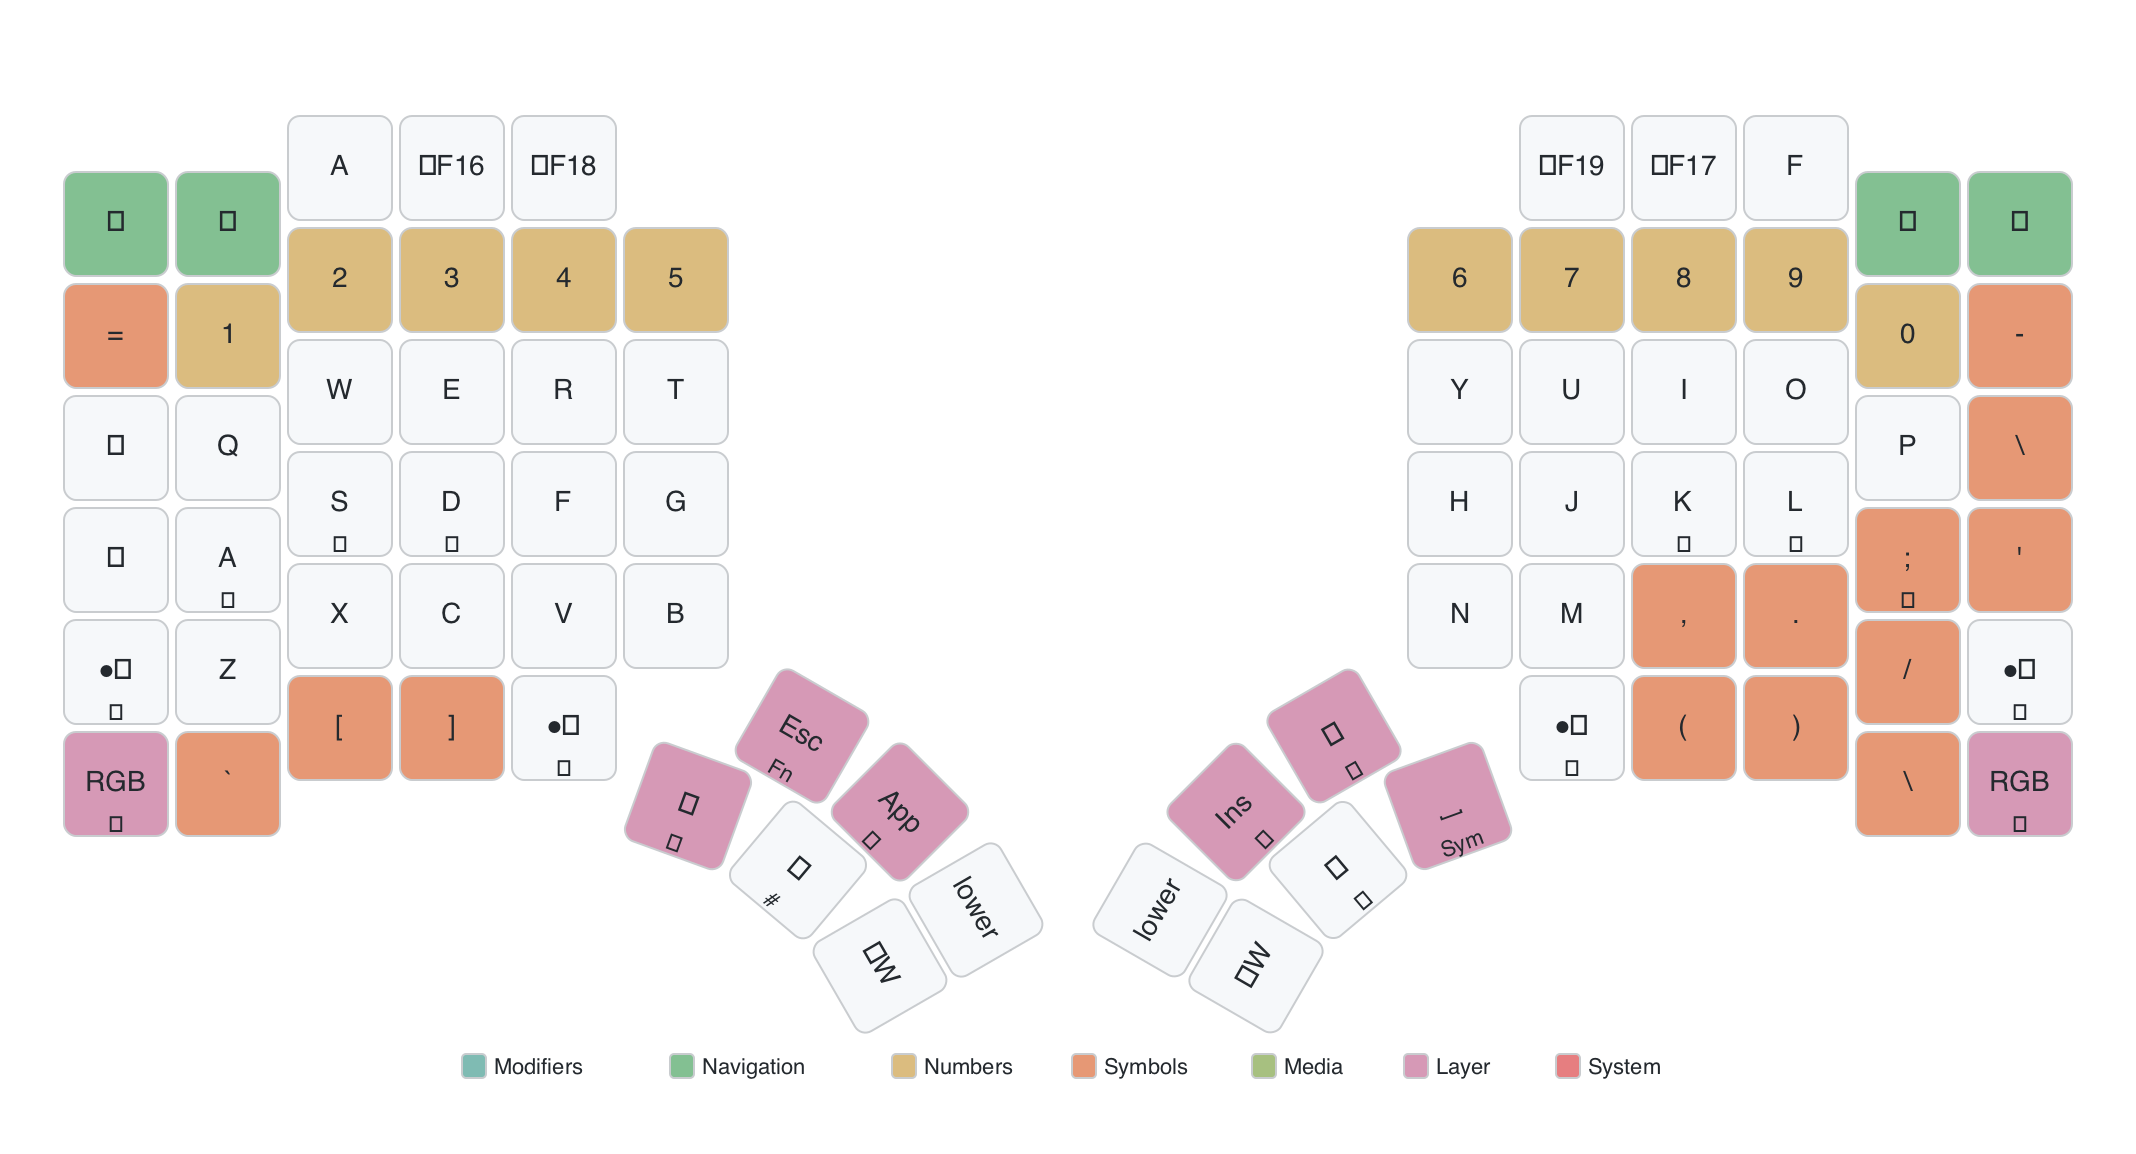
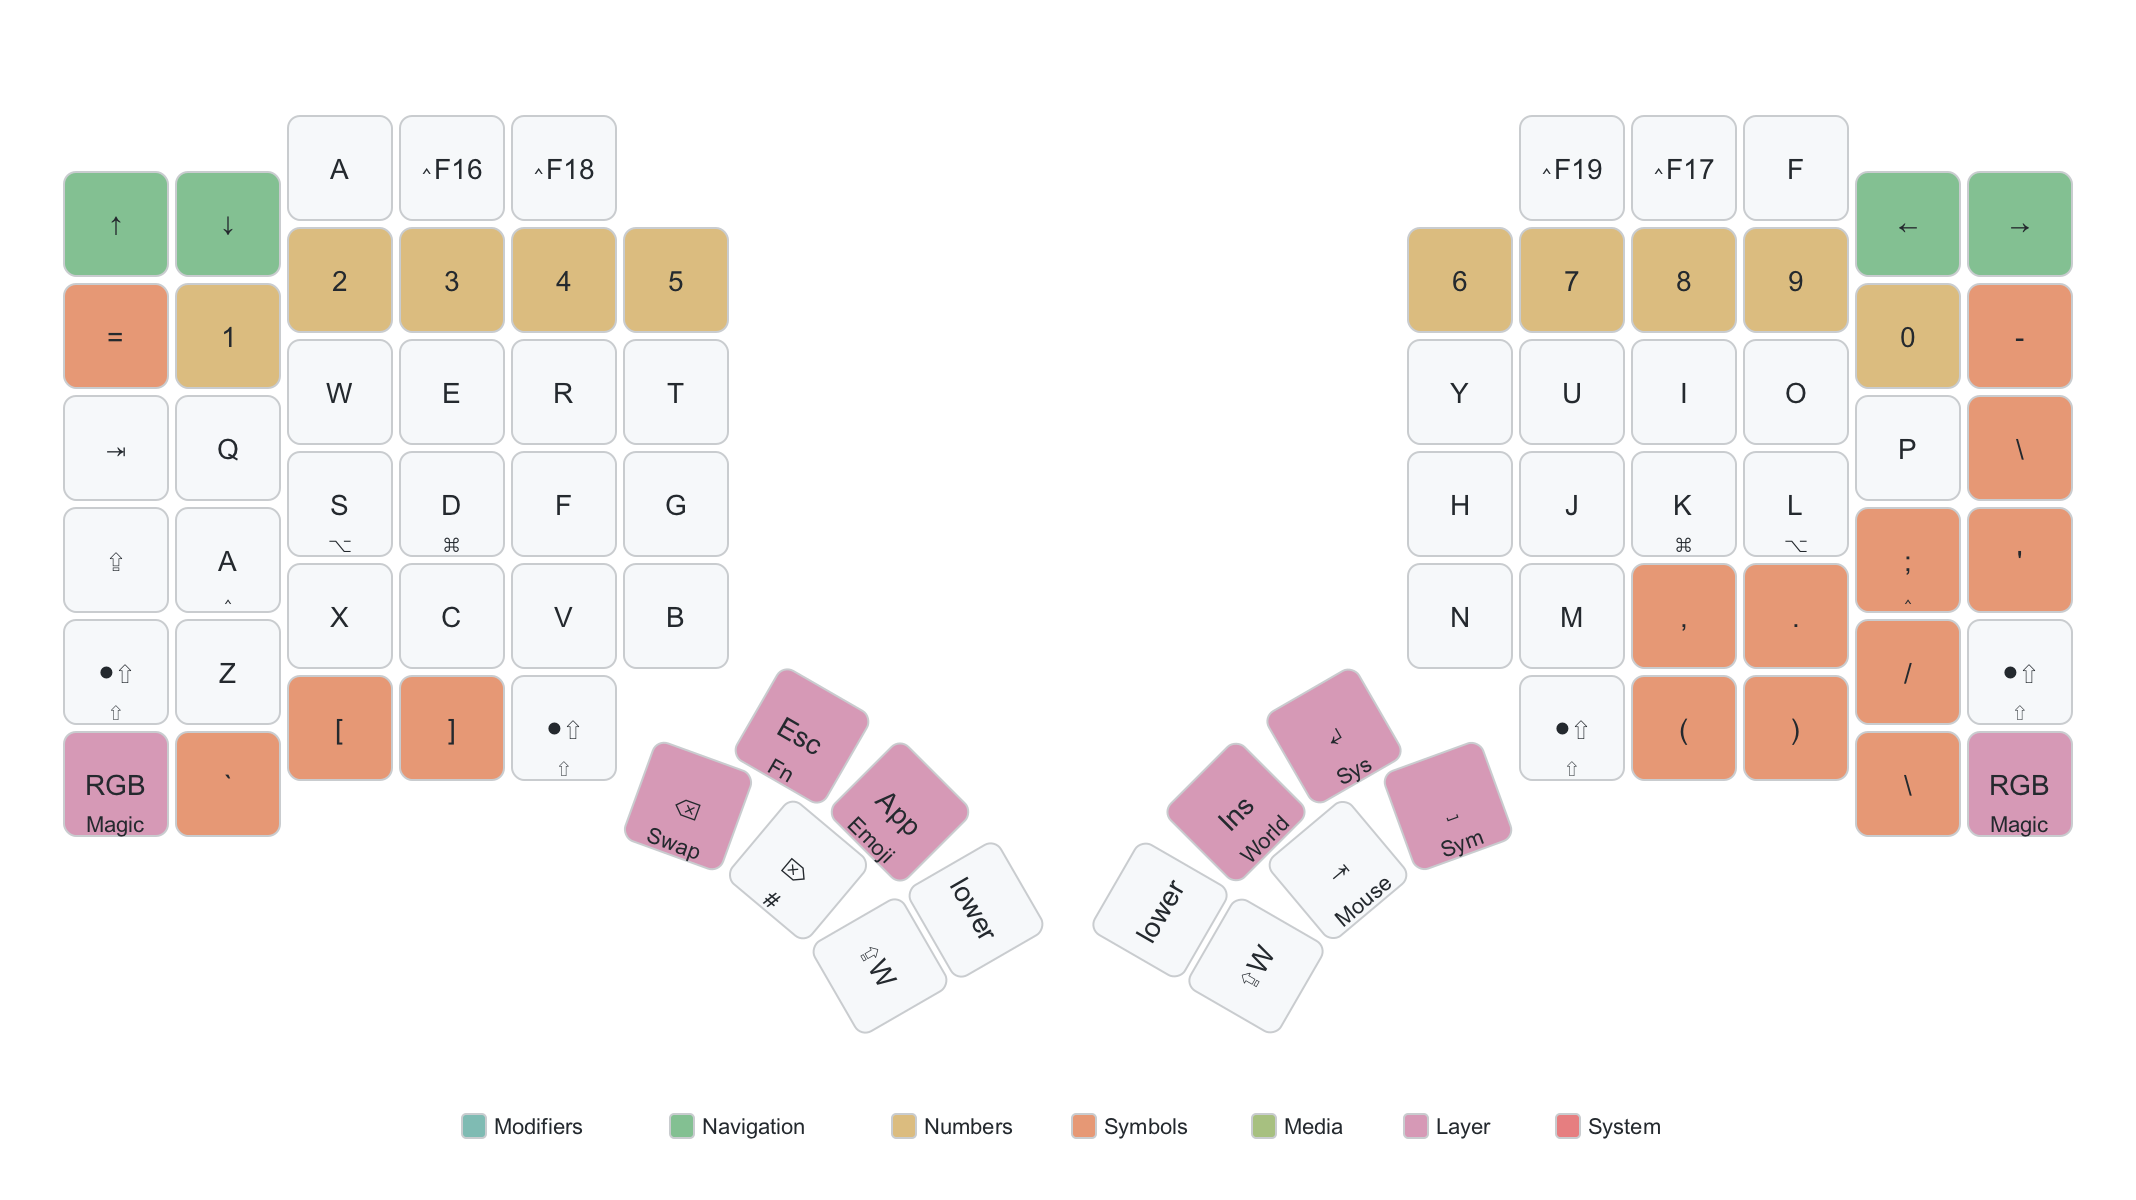
Fix PNG rendering, legend positioning, and semver constraints
PNG rendering fixes:
- Use Arial Unicode MS font for better Unicode symbol support in CairoSVG
- Replace problematic emoji with text equivalents (😀→Emoji, 🌍→World, etc.)
- Add centered-label CSS with proper styling and letter-spacing

Legend improvements:
- Add white background behind legend for readability
- Move legend below thumb cluster (y=555) with proper clearance
- Increase SVG height to 600px for padding below legend

Layer label centering:
- Fix center_x to 504 (true center of gap between keyboard halves)

Semver constraints:
- Pin 0.x dependencies to minor version (keymap-drawer>=0.18.0,<0.19.0)
- Pin 1.x+ dependencies to major version for standard semver

Tests:
- Add TestEmojiReplacement (5 tests) for emoji→text conversion
- Add TestColorLegendBackground (5 tests) for legend styling
- Add test for centered layer label x position
- Maintain 100% code coverage (382 tests)

🤖 Generated with [Claude Code](https://claude.com/claude-code)

diff --git a/tests/test_svg_generator.py b/tests/test_svg_generator.py
@@ -1999,6 +1999,141 @@ class TestHeldKeyIndicator:
         assert result.get("h") == "Layer"
 
 
+class TestEmojiReplacement:
+    """Tests for emoji to text replacement for CairoSVG compatibility."""
+
+    def test_emoji_replaced_with_text(self):
+        """SPEC-ER-001: Emoji characters are replaced with text equivalents."""
+        from glove80_visualizer.svg_generator import _replace_emoji_for_cairo
+
+        svg = '<text>😀</text><text>🌍</text><text>⚙</text>'
+        result = _replace_emoji_for_cairo(svg)
+
+        assert "😀" not in result
+        assert "🌍" not in result
+        assert "⚙" not in result
+        assert "Emoji" in result
+        assert "World" in result
+        assert "Sys" in result
+
+    def test_mouse_emoji_replaced(self):
+        """SPEC-ER-002: Mouse emoji is replaced with text."""
+        from glove80_visualizer.svg_generator import _replace_emoji_for_cairo
+
+        svg = '<text>🖱</text>'
+        result = _replace_emoji_for_cairo(svg)
+
+        assert "🖱" not in result
+        assert "Mouse" in result
+
+    def test_magic_emoji_replaced(self):
+        """SPEC-ER-003: Magic/sparkles emoji is replaced with text."""
+        from glove80_visualizer.svg_generator import _replace_emoji_for_cairo
+
+        svg = '<text>✨</text>'
+        result = _replace_emoji_for_cairo(svg)
+
+        assert "✨" not in result
+        assert "Magic" in result
+
+    def test_volume_emoji_replaced(self):
+        """SPEC-ER-004: Volume emoji characters are replaced with text."""
+        from glove80_visualizer.svg_generator import _replace_emoji_for_cairo
+
+        svg = '<text>🔊</text><text>🔇</text>'
+        result = _replace_emoji_for_cairo(svg)
+
+        assert "🔊" not in result
+        assert "🔇" not in result
+        assert "Vol+" in result
+        assert "Mute" in result
+
+    def test_non_emoji_text_unchanged(self):
+        """SPEC-ER-005: Regular text is not modified."""
+        from glove80_visualizer.svg_generator import _replace_emoji_for_cairo
+
+        svg = '<text>Hello World</text><text>ABC</text>'
+        result = _replace_emoji_for_cairo(svg)
+
+        assert result == svg
+
+
+class TestColorLegendBackground:
+    """Tests for color legend background and positioning."""
+
+    def test_legend_has_white_background(self):
+        """SPEC-LB-001: Legend has a white background for readability."""
+        from glove80_visualizer.svg_generator import _generate_color_legend
+        from glove80_visualizer.colors import ColorScheme
+
+        scheme = ColorScheme()
+        legend_svg = _generate_color_legend(scheme)
+
+        # Should have a background rect with white fill
+        assert 'fill="white"' in legend_svg or "fill='white'" in legend_svg
+
+    def test_legend_positioned_below_keyboard(self):
+        """SPEC-LB-002: Legend is positioned below the keyboard keys (y > 545)."""
+        from glove80_visualizer.svg_generator import _generate_color_legend
+        from glove80_visualizer.colors import ColorScheme
+        import re
+
+        scheme = ColorScheme()
+        legend_svg = _generate_color_legend(scheme)
+
+        # Find y coordinates in the legend (exclude ry= which is corner radius)
+        # Match y="..." but not ry="..."
+        y_matches = re.findall(r'(?<!r)y="(\d+)"', legend_svg)
+        y_values = [int(y) for y in y_matches]
+
+        # All y values should be greater than 545 to be below the thumb cluster
+        # (thumb keys extend to about 520, legend should have clearance)
+        assert all(y >= 545 for y in y_values), f"Legend y values {y_values} should all be >= 545"
+
+    def test_svg_height_increased_for_legend_padding(self):
+        """SPEC-LB-003: SVG height is increased to provide padding below legend."""
+        from glove80_visualizer.svg_generator import generate_layer_svg
+        from glove80_visualizer.models import Layer, KeyBinding
+        from glove80_visualizer.config import VisualizerConfig
+        import re
+
+        layer = Layer(name="Test", index=0, bindings=[
+            KeyBinding(position=i, tap="A") for i in range(80)
+        ])
+        config = VisualizerConfig(show_colors=True)
+
+        svg = generate_layer_svg(layer, config=config)
+
+        # Extract height from SVG
+        height_match = re.search(r'height="(\d+)"', svg)
+        assert height_match, "SVG should have height attribute"
+        height = int(height_match.group(1))
+
+        # Height should be increased to at least 600 for legend padding
+        assert height >= 600, f"SVG height {height} should be >= 600 for legend padding"
+
+    def test_increase_svg_height_no_height_attribute(self):
+        """SPEC-LB-004: _increase_svg_height handles SVG without height attribute."""
+        from glove80_visualizer.svg_generator import _increase_svg_height
+
+        svg = '<svg viewBox="0 0 100 100"></svg>'
+        result = _increase_svg_height(svg, 200)
+
+        # Should return unchanged
+        assert result == svg
+
+    def test_increase_svg_height_already_sufficient(self):
+        """SPEC-LB-005: _increase_svg_height doesn't change if height already sufficient."""
+        from glove80_visualizer.svg_generator import _increase_svg_height
+
+        svg = '<svg width="100" height="700" viewBox="0 0 100 700"></svg>'
+        result = _increase_svg_height(svg, 600)
+
+        # Should return unchanged
+        assert result == svg
+        assert 'height="700"' in result
+
+
 class TestColorLegend:
     """Tests for color legend in layer diagrams."""
 
@@ -2074,6 +2209,25 @@ class TestCenteredLayerName:
         assert "Cursor" in svg
         # Should have text-anchor middle for centering
         assert 'text-anchor' in svg.lower() or 'middle' in svg.lower()
+
+    def test_layer_label_x_position_centered(self):
+        """SPEC-LN-002: Layer label x position is truly centered (around 504 for 1068px)."""
+        from glove80_visualizer.svg_generator import _center_layer_label
+        import re
+
+        # Simulate input from keymap-drawer
+        svg_input = '<text x="0" y="28" class="label" id="Test">Test:</text>'
+        result = _center_layer_label(svg_input, "Test")
+
+        # Extract the x value from the result
+        x_match = re.search(r'x="(\d+)"', result)
+        assert x_match, "Should have x coordinate in centered label"
+        x_value = int(x_match.group(1))
+
+        # True center of 1068px keyboard (minus 30px left margin) is (1068-30)/2 = 519
+        # But the group already has translate(30,0), so we want 504 within the group
+        # Allow tolerance for different approaches
+        assert 490 <= x_value <= 540, f"Label x={x_value} should be centered (490-540)"
 
 
 class TestColorOutput:

diff --git a/src/glove80_visualizer/svg_generator.py b/src/glove80_visualizer/svg_generator.py
@@ -283,11 +283,34 @@ def generate_layer_svg(
     # Default tap size is 14, but we want a more prominent indicator
     kd_config.draw_config.glyph_tap_size = 32
 
+    # Override default font to include better Unicode symbol support
+    # Arial Unicode MS has extensive Unicode coverage and works well with CairoSVG
+    font_override_css = """
+/* Better font for Unicode symbols - CairoSVG compatibility */
+svg.keymap {
+    font-family: "Arial Unicode MS", "Lucida Grande", "Apple Symbols", Arial, sans-serif;
+}
+
+/* Centered layer label styling */
+text.centered-label {
+    text-anchor: middle !important;
+    font-size: 20px;
+    fill: #24292e !important;
+    stroke: white;
+    stroke-width: 3;
+    paint-order: stroke;
+    letter-spacing: 0.1em;
+}
+"""
+
     # Add color CSS if enabled
+    extra_css = font_override_css
     if config.show_colors:
         color_scheme = ColorScheme()
         color_css = _generate_color_css(color_scheme)
-        kd_config.draw_config.svg_extra_style = color_css
+        extra_css += color_css
+
+    kd_config.draw_config.svg_extra_style = extra_css
 
     # Generate SVG
     out = StringIO()
@@ -295,6 +318,9 @@ def generate_layer_svg(
     drawer.print_board(draw_layers=[working_layer.name])
 
     svg_content = out.getvalue()
+
+    # Replace emoji with text equivalents for CairoSVG compatibility
+    svg_content = _replace_emoji_for_cairo(svg_content)
 
     # Replace glyph <use> elements with inline SVG paths for CairoSVG compatibility
     svg_content = _inline_fingerprint_glyphs(svg_content)
@@ -1148,7 +1174,8 @@ def _generate_color_legend(scheme: ColorScheme) -> str:
 
     # Legend positioning - centered below the keyboard
     # Keyboard is ~1008 wide (with 30px offset), legend should be centered
-    legend_y = 525  # Below the keyboard keys
+    # Position below thumb cluster (which extends to ~520) with padding
+    legend_y = 555  # Below the thumb keys with clearance
     box_size = 12  # Color swatch size
     box_text_gap = 4  # Gap between box and its label
     item_gap = 25  # Gap between items
@@ -1192,9 +1219,21 @@ def _generate_color_legend(scheme: ColorScheme) -> str:
 
     legend_content = "\n".join(items_svg)
 
+    # Add a white background rectangle behind the legend for readability
+    bg_padding = 10
+    bg_x = legend_x_start - bg_padding
+    bg_y = legend_y - bg_padding + 2
+    bg_width = total_width + bg_padding * 2
+    bg_height = box_size + bg_padding * 2
+    background = (
+        f'<rect x="{bg_x}" y="{bg_y}" width="{bg_width}" height="{bg_height}" '
+        f'rx="4" ry="4" fill="white" fill-opacity="0.9"/>'
+    )
+
     return f'''
 <!-- Color Legend -->
 <g class="color-legend" transform="translate(30, 0)">
+{background}
 {legend_content}
 </g>
 '''
@@ -1215,8 +1254,53 @@ def _add_color_legend(svg_content: str, scheme: ColorScheme) -> str:
     """
     legend_svg = _generate_color_legend(scheme)
 
+    # Increase SVG height to add padding below the legend
+    # Legend is at y=555, with box_size=12, so bottom is around y=567
+    # Add padding to make it at least 600px tall
+    min_height = 600
+    svg_content = _increase_svg_height(svg_content, min_height)
+
     # Insert before closing </svg> tag
     svg_content = svg_content.replace("</svg>", f"{legend_svg}</svg>")
+
+    return svg_content
+
+
+def _increase_svg_height(svg_content: str, min_height: int) -> str:
+    """
+    Increase SVG height and viewBox if below minimum.
+
+    Args:
+        svg_content: The SVG string to modify
+        min_height: Minimum height in pixels
+
+    Returns:
+        Modified SVG with increased height if needed
+    """
+    # Find current height
+    height_match = re.search(r'height="(\d+)"', svg_content)
+    if not height_match:
+        return svg_content
+
+    current_height = int(height_match.group(1))
+    if current_height >= min_height:
+        return svg_content
+
+    # Update height attribute
+    svg_content = re.sub(
+        r'height="(\d+)"',
+        f'height="{min_height}"',
+        svg_content,
+        count=1
+    )
+
+    # Update viewBox height
+    svg_content = re.sub(
+        r'viewBox="(\d+)\s+(\d+)\s+(\d+)\s+(\d+)"',
+        lambda m: f'viewBox="{m.group(1)} {m.group(2)} {m.group(3)} {min_height}"',
+        svg_content,
+        count=1
+    )
 
     return svg_content
 
@@ -1238,8 +1322,10 @@ def _center_layer_label(svg_content: str, layer_name: str) -> str:
     # The keymap-drawer generates: <text x="0" y="28" class="label" id="LayerName">LayerName:</text>
     # We want to move it to the center and change styling
 
-    # Center X position (keyboard is ~1008 wide with 30px offset, center ~504)
-    center_x = 474  # Adjusted for the 30px translate offset
+    # Center X position between left and right keyboard halves
+    # Left hand extends to ~460, right hand starts at ~550
+    # Center of the gap: (460 + 550) / 2 = 505
+    center_x = 504  # Center of the gap between keyboard halves
 
     # Pattern to match the layer label
     # Note: The label includes a colon after the layer name
@@ -1275,6 +1361,50 @@ def _add_title_to_svg(svg_content: str, title: str) -> str:
             svg_content[:insert_pos] + title_element + svg_content[insert_pos:]
         )
 
+    return svg_content
+
+
+# Emoji to text replacements for CairoSVG compatibility
+# CairoSVG often fails to render emoji, so we replace them with text equivalents
+EMOJI_REPLACEMENTS = {
+    # Layer/function emoji
+    "😀": "Emoji",
+    "🌍": "World",
+    "⚙": "Sys",
+    "✨": "Magic",
+    "🖱": "Mouse",
+    "↔": "Swap",
+    # Volume/media emoji
+    "🔊": "Vol+",
+    "🔉": "Vol-",
+    "🔇": "Mute",
+    "🔆": "Bri+",
+    "🔅": "Bri-",
+    "☀": "Bri",
+    "🌑": "Dark",
+    # Other problematic Unicode that may not render
+    "⇱": "Home",
+    "⇲": "End",
+    "⇞": "PgUp",
+    "⇟": "PgDn",
+}
+
+
+def _replace_emoji_for_cairo(svg_content: str) -> str:
+    """
+    Replace emoji and problematic Unicode with text equivalents.
+
+    CairoSVG doesn't reliably render emoji characters, so we replace
+    them with readable text alternatives.
+
+    Args:
+        svg_content: The SVG string to process
+
+    Returns:
+        SVG with emoji replaced by text
+    """
+    for emoji, text in EMOJI_REPLACEMENTS.items():
+        svg_content = svg_content.replace(emoji, text)
     return svg_content
 
 
